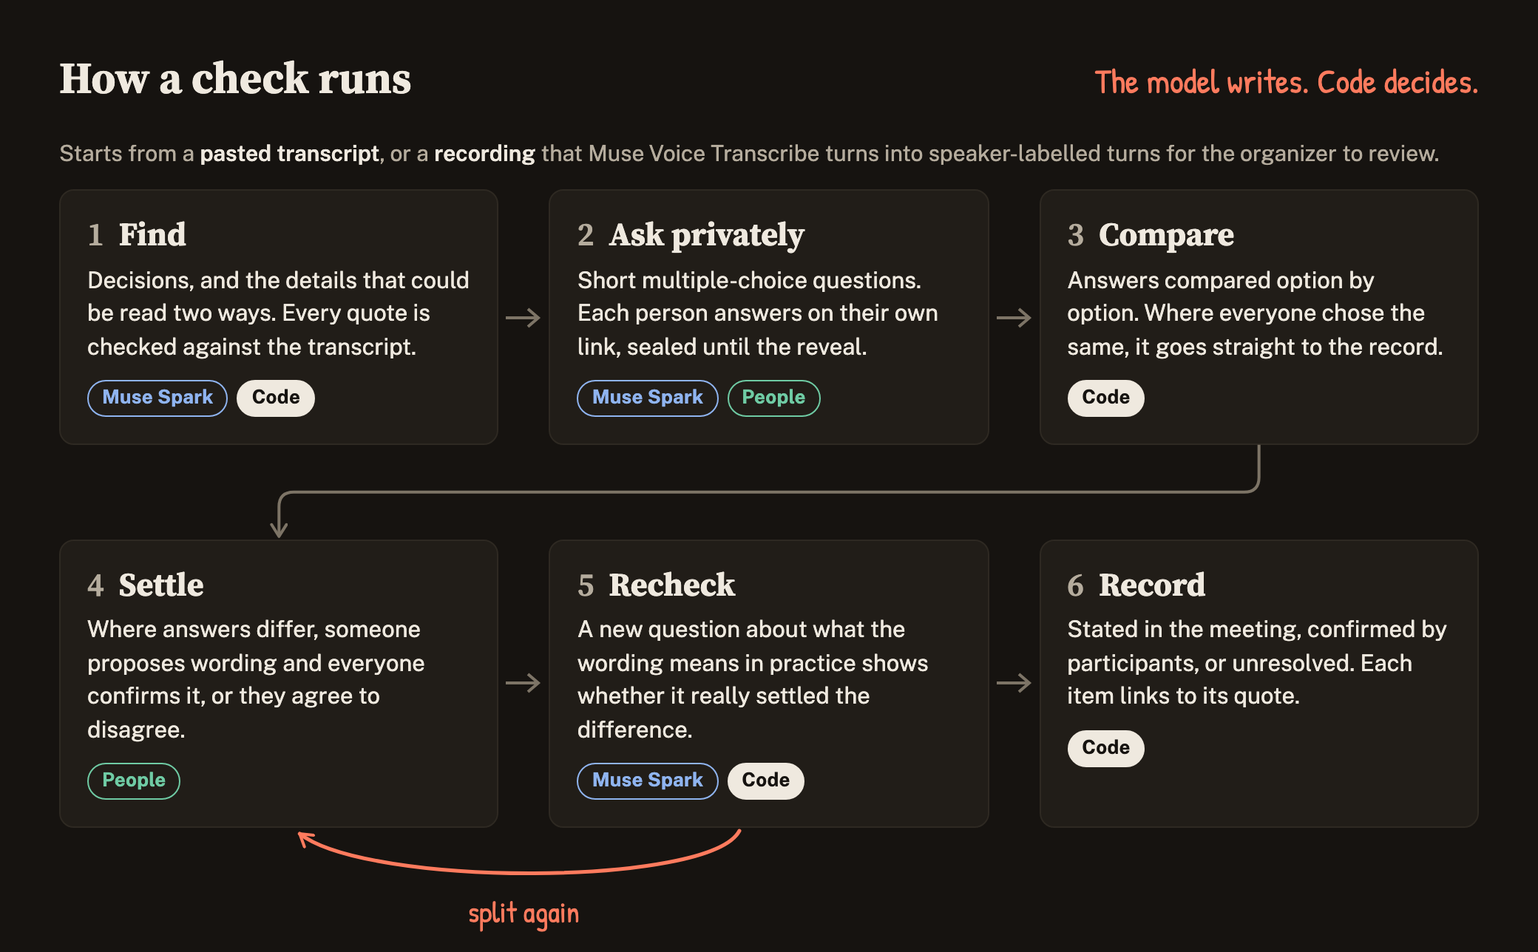
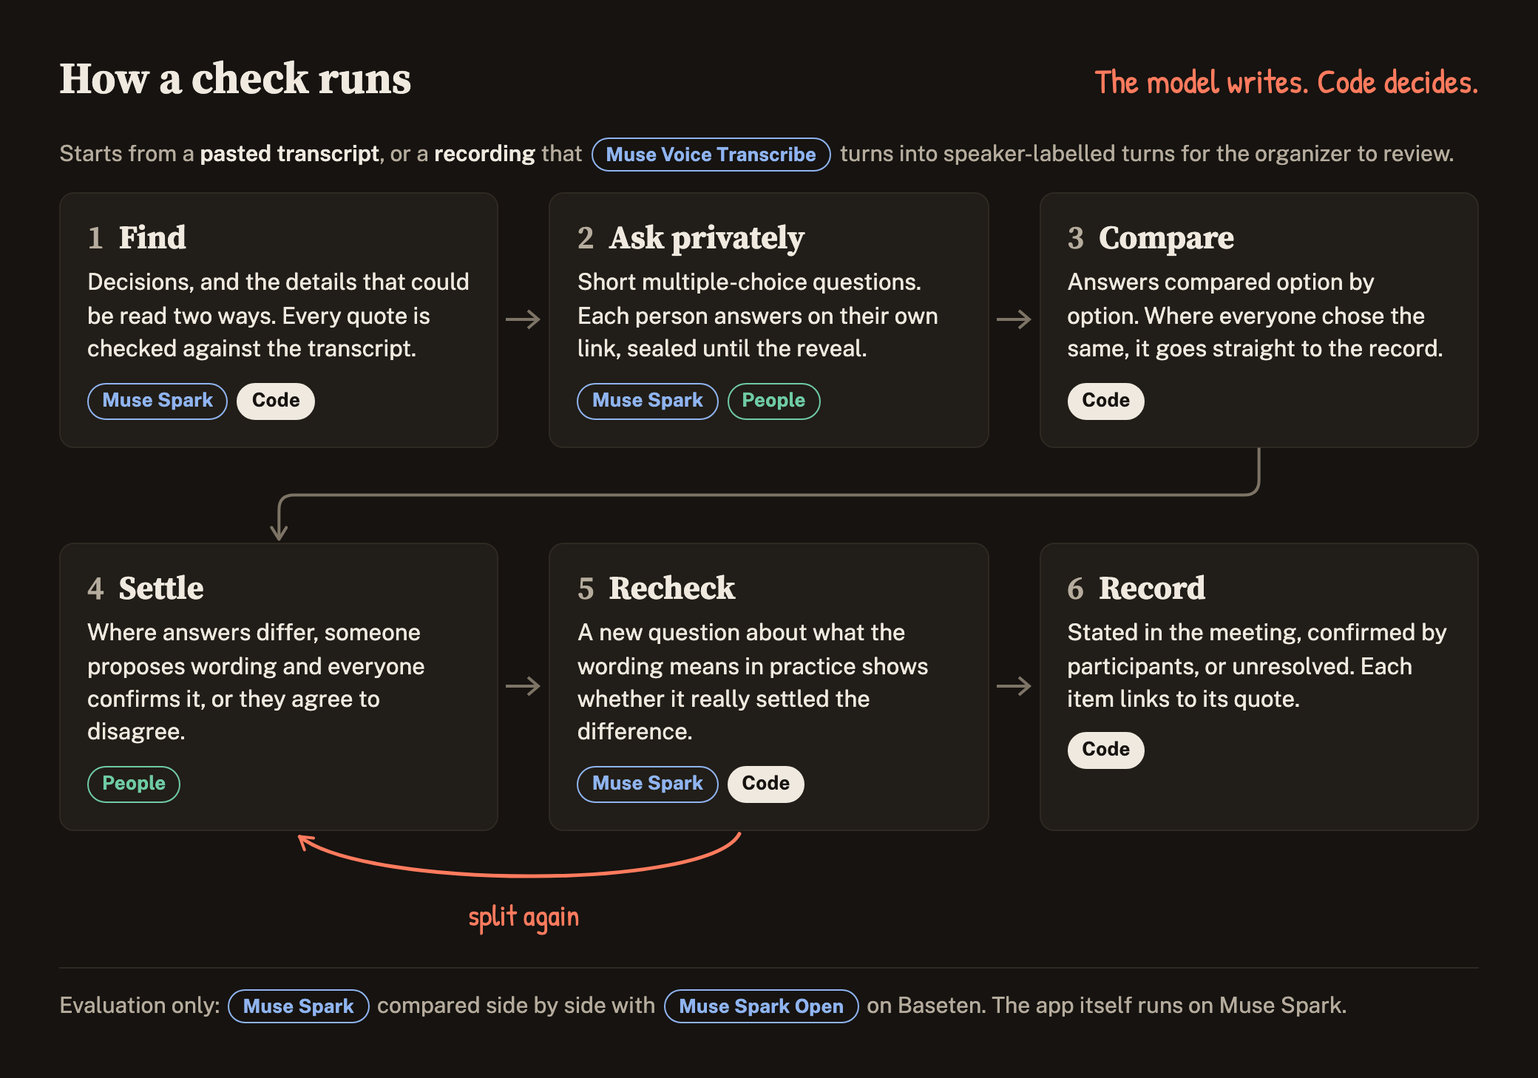
First person in the docs, all three models in the diagram, Slack and Teams coming soon (#73)
* README and write-up: first person singular

ForkCheck is a solo entry, so the write-up says I rather than we.

* Loop diagram: Voice Transcribe as a model tag, and a footnote for the Spark Open comparison

All three Meta models now show in the diagram. Muse Spark Open is marked
as evaluation only, so it doesn't read as part of the app.

* Participant links: Slack and Teams buttons marked Coming soon

Shown next to Email and Share with the brand marks (Simple Icons, CC0).
They are aria-disabled rather than disabled, so keyboard and
screen-reader users reach them, and Coming soon shows on hover, on
keyboard focus and on tap.

* e2e: check the Coming soon tooltip with a forced tap

diff --git a/apps/web/src/ui/send-link.tsx b/apps/web/src/ui/send-link.tsx
@@ -1,6 +1,6 @@
 "use client";
 
-import { useSyncExternalStore } from "react";
+import { useId, useState, useSyncExternalStore } from "react";
 import { Button } from "./components";
 
 /** Why the link is being sent: first to answer, or after the reveal to settle the differences. */
@@ -30,6 +30,44 @@ export function mailtoHref(subject: string, body: string): string {
 }
 
 const noSubscribe = () => () => {};
+
+/** Brand marks from Simple Icons (CC0), drawn in the button's text colour. */
+const LOGOS = {
+  Slack:
+    "M5.042 15.165a2.528 2.528 0 0 1-2.52 2.523A2.528 2.528 0 0 1 0 15.165a2.527 2.527 0 0 1 2.522-2.52h2.52v2.52zM6.313 15.165a2.527 2.527 0 0 1 2.521-2.52 2.527 2.527 0 0 1 2.521 2.52v6.313A2.528 2.528 0 0 1 8.834 24a2.528 2.528 0 0 1-2.521-2.522v-6.313zM8.834 5.042a2.528 2.528 0 0 1-2.521-2.52A2.528 2.528 0 0 1 8.834 0a2.528 2.528 0 0 1 2.521 2.522v2.52H8.834zM8.834 6.313a2.528 2.528 0 0 1 2.521 2.521 2.528 2.528 0 0 1-2.521 2.521H2.522A2.528 2.528 0 0 1 0 8.834a2.528 2.528 0 0 1 2.522-2.521h6.312zM18.956 8.834a2.528 2.528 0 0 1 2.522-2.521A2.528 2.528 0 0 1 24 8.834a2.528 2.528 0 0 1-2.522 2.521h-2.522V8.834zM17.688 8.834a2.528 2.528 0 0 1-2.523 2.521 2.527 2.527 0 0 1-2.52-2.521V2.522A2.527 2.527 0 0 1 15.165 0a2.528 2.528 0 0 1 2.523 2.522v6.312zM15.165 18.956a2.528 2.528 0 0 1 2.523 2.522A2.528 2.528 0 0 1 15.165 24a2.527 2.527 0 0 1-2.52-2.522v-2.522h2.52zM15.165 17.688a2.527 2.527 0 0 1-2.52-2.523 2.526 2.526 0 0 1 2.52-2.52h6.313A2.527 2.527 0 0 1 24 15.165a2.528 2.528 0 0 1-2.522 2.523h-6.313z",
+  Teams:
+    "M20.625 8.127q-.55 0-1.025-.205-.475-.205-.832-.563-.358-.357-.563-.832Q18 6.053 18 5.502q0-.54.205-1.02t.563-.837q.357-.358.832-.563.474-.205 1.025-.205.54 0 1.02.205t.837.563q.358.357.563.837.205.48.205 1.02 0 .55-.205 1.025-.205.475-.563.832-.357.358-.837.563-.48.205-1.02.205zm0-3.75q-.469 0-.797.328-.328.328-.328.797 0 .469.328.797.328.328.797.328.469 0 .797-.328.328-.328.328-.797 0-.469-.328-.797-.328-.328-.797-.328zM24 10.002v5.578q0 .774-.293 1.46-.293.685-.803 1.194-.51.51-1.195.803-.686.293-1.459.293-.445 0-.908-.105-.463-.106-.85-.329-.293.95-.855 1.729-.563.78-1.319 1.336-.756.557-1.67.861-.914.305-1.898.305-1.148 0-2.162-.398-1.014-.399-1.805-1.102-.79-.703-1.312-1.664t-.674-2.086h-5.8q-.411 0-.704-.293T0 16.881V6.873q0-.41.293-.703t.703-.293h8.59q-.34-.715-.34-1.5 0-.727.275-1.365.276-.639.75-1.114.475-.474 1.114-.75.638-.275 1.365-.275t1.365.275q.639.276 1.114.75.474.475.75 1.114.275.638.275 1.365t-.275 1.365q-.276.639-.75 1.113-.475.475-1.114.75-.638.276-1.365.276-.188 0-.375-.024-.188-.023-.375-.058v1.078h10.875q.469 0 .797.328.328.328.328.797zM12.75 2.373q-.41 0-.78.158-.368.158-.638.434-.27.275-.428.639-.158.363-.158.773 0 .41.158.78.159.368.428.638.27.27.639.428.369.158.779.158.41 0 .773-.158.364-.159.64-.428.274-.27.433-.639.158-.369.158-.779 0-.41-.158-.773-.159-.364-.434-.64-.275-.275-.639-.433-.363-.158-.773-.158zM6.937 9.814h2.25V7.94H2.814v1.875h2.25v6h1.875zm10.313 7.313v-6.75H12v6.504q0 .41-.293.703t-.703.293H8.309q.152.809.556 1.5.405.691.985 1.19.58.497 1.318.779.738.281 1.582.281.926 0 1.746-.352.82-.351 1.436-.966.615-.616.966-1.43.352-.815.352-1.752zm5.25-1.547v-5.203h-3.75v6.855q.305.305.691.452.387.146.809.146.469 0 .879-.176.41-.175.715-.48.304-.305.48-.715t.176-.879Z",
+} as const;
+
+/**
+ * Slack and Teams delivery isn't built yet. The button stays focusable (aria-disabled, not
+ * disabled) so keyboard and screen-reader users reach it too, and "Coming soon" shows on hover,
+ * on keyboard focus and on tap, since phones have no hover.
+ */
+function ComingSoon({ service, name }: { service: keyof typeof LOGOS; name: string }) {
+  const [open, setOpen] = useState(false);
+  const tip = useId();
+  return (
+    <span className="coming-soon">
+      <Button
+        variant="secondary"
+        aria-disabled="true"
+        aria-label={`${service}: send ${name}'s link`}
+        aria-describedby={tip}
+        onClick={() => setOpen((o) => !o)}
+        onBlur={() => setOpen(false)}
+      >
+        <svg className="brand-logo" viewBox="0 0 24 24" aria-hidden="true" focusable="false">
+          <path d={LOGOS[service]} fill="currentColor" />
+        </svg>
+        {service}
+      </Button>
+      <span role="tooltip" id={tip} className="coming-soon-tip" data-open={open || undefined}>
+        Coming soon
+      </span>
+    </span>
+  );
+}
 
 /** Email from the organizer's mail app, and Share where the browser has a share sheet (phones). */
 export function SendLink({
@@ -70,6 +108,8 @@ export function SendLink({
           Share
         </Button>
       )}
+      <ComingSoon service="Slack" name={name} />
+      <ComingSoon service="Teams" name={name} />
     </>
   );
 }

diff --git a/.github/assets/loop-diagram.html b/.github/assets/loop-diagram.html
@@ -80,6 +80,11 @@
         color: var(--ink-muted);
         font-size: 15px;
       }
+      .source .tag {
+        display: inline-block;
+        margin-inline: 2px;
+        line-height: 1.35;
+      }
       .source strong {
         color: var(--ink);
         font-weight: 600;
@@ -150,6 +155,18 @@
         justify-self: center;
         color: var(--line);
       }
+      .footnote {
+        margin: 92px 0 0;
+        padding-top: 14px;
+        border-top: 1px solid var(--line-subtle);
+        color: var(--ink-muted);
+        font-size: 15px;
+      }
+      .footnote .tag {
+        display: inline-block;
+        margin-inline: 2px;
+        line-height: 1.35;
+      }
       svg.wires {
         position: absolute;
         inset: 0;
@@ -173,8 +190,9 @@
         <span class="rule">The model writes. Code decides.</span>
       </header>
       <p class="source">
-        Starts from a <strong>pasted transcript</strong>, or a <strong>recording</strong> that Muse
-        Voice Transcribe turns into speaker-labelled turns for the organizer to review.
+        Starts from a <strong>pasted transcript</strong>, or a <strong>recording</strong> that
+        <span class="tag model">Muse Voice Transcribe</span> turns into speaker-labelled turns for
+        the organizer to review.
       </p>
 
       <div class="row">
@@ -253,6 +271,12 @@
         </section>
       </div>
 
+      <p class="footnote">
+        Evaluation only: <span class="tag model">Muse Spark</span> compared side by side with
+        <span class="tag model">Muse Spark Open</span> on Baseten. The app itself runs on Muse
+        Spark.
+      </p>
+
       <svg class="wires" id="wires" aria-hidden="true"></svg>
       <span class="note" id="loop-note">split again</span>
     </div>
@@ -296,7 +320,7 @@
         const note = document.getElementById("loop-note");
         note.style.left = `${(a + b) / 2 - note.offsetWidth / 2}px`;
         note.style.top = `${y + 16}px`;
-        document.querySelector(".diagram").style.paddingBottom = "84px";
+        document.querySelector(".diagram").style.paddingBottom = "36px";
       }
       document.fonts.ready.then(() => {
         draw();

diff --git a/apps/web/e2e/meetings.e2e.ts b/apps/web/e2e/meetings.e2e.ts
@@ -27,6 +27,14 @@ test("the sample meeting fills the form, and the check it creates is listed unde
   await page.getByLabel(/Everyone in this meeting agreed/).check();
   await page.getByRole("button", { name: "Create meeting check" }).click();
   await expect(page.getByRole("heading", { name: "Meeting check created" })).toBeVisible();
+  // Slack and Teams aren't built: they stay reachable and say "Coming soon".
+  const slack = page.getByRole("button", { name: "Slack: send June's link" });
+  await expect(slack).toHaveAttribute("aria-disabled", "true");
+  await expect(slack).toHaveAccessibleDescription("Coming soon");
+  // aria-disabled blocks Playwright's own click, but a real tap goes through and shows the tip.
+  await slack.click({ force: true });
+  await expect(page.getByRole("tooltip").filter({ hasText: "Coming soon" }).first()).toBeVisible();
+  await expect(page.getByRole("heading", { name: "Meeting check created" })).toBeVisible();
   // Email opens the organizer's own mail app with the person's link in a ready message.
   const email = page.getByRole("link", { name: "Email June's link" });
   const nadiaLink = await page

diff --git a/apps/web/src/app/components.css b/apps/web/src/app/components.css
@@ -2155,6 +2155,51 @@ a.button {
   font-size: inherit;
 }
 
+/* Slack and Teams: shown, not built yet. */
+.coming-soon {
+  position: relative;
+  display: inline-flex;
+}
+
+.coming-soon .button[aria-disabled="true"] {
+  display: inline-flex;
+  align-items: center;
+  color: var(--ink-muted);
+  border-style: dashed;
+  border-color: var(--line);
+  cursor: not-allowed;
+}
+
+.coming-soon .brand-logo {
+  width: 1em;
+  height: 1em;
+  margin-inline-end: var(--space-2);
+  flex: none;
+}
+
+.coming-soon-tip {
+  position: absolute;
+  bottom: calc(100% + var(--space-2));
+  left: 50%;
+  z-index: 2;
+  padding: var(--space-1) var(--space-2);
+  background: var(--ink);
+  color: var(--paper);
+  border-radius: var(--radius-control, 4px);
+  font-size: 0.8125rem;
+  font-weight: 600;
+  white-space: nowrap;
+  transform: translateX(-50%);
+  visibility: hidden;
+  pointer-events: none;
+}
+
+.coming-soon:hover .coming-soon-tip,
+.coming-soon .button:focus-visible + .coming-soon-tip,
+.coming-soon-tip[data-open] {
+  visibility: visible;
+}
+
 /* ---------- Your meetings ---------- */
 
 .meeting-list {

diff --git a/apps/web/test/ui/send-link.test.tsx b/apps/web/test/ui/send-link.test.tsx
@@ -1,5 +1,6 @@
+import { renderToStaticMarkup } from "react-dom/server";
 import { describe, expect, it } from "vitest";
-import { linkMessage, mailtoHref } from "../../src/ui/send-link";
+import { linkMessage, mailtoHref, SendLink } from "../../src/ui/send-link";
 
 const url = "http://localhost:3000/p/abc";
 
@@ -26,5 +27,19 @@ describe("mailtoHref", () => {
     expect(mailtoHref('A "b" & c', "line 1\nline 2")).toBe(
       "mailto:?subject=A%20%22b%22%20%26%20c&body=line%201%0Aline%202",
     );
+  });
+});
+
+describe("SendLink", () => {
+  it("shows Slack and Teams as focusable, not-yet-working buttons that say Coming soon", () => {
+    const out = renderToStaticMarkup(
+      <SendLink name="June" title="Atlas launch sync" url={url} purpose="answer" />,
+    );
+    for (const service of ["Slack", "Teams"]) {
+      expect(out).toContain(`aria-label="${service}: send June&#x27;s link"`);
+    }
+    expect(out.match(/aria-disabled="true"/g)).toHaveLength(2);
+    expect(out).not.toMatch(/\sdisabled=""/);
+    expect(out.match(/role="tooltip"[^>]*>Coming soon</g)).toHaveLength(2);
   });
 });

diff --git a/WRITEUP.md b/WRITEUP.md
@@ -20,25 +20,25 @@ The organizer and each participant use their own browser link. No accounts.
 
 <picture>
   <source media="(prefers-color-scheme: dark)" srcset=".github/assets/loop-dark.png">
-  <img alt="How a check runs. It starts from a pasted transcript, or a recording that Muse Voice Transcribe turns into speaker-labelled turns. 1 Find: Muse Spark finds decisions and the details that could be read two ways, and code checks every quote against the transcript. 2 Ask privately: Muse Spark drafts multiple-choice questions and each person answers on their own link, sealed until the reveal. 3 Compare: code compares answers option by option; matching answers go straight to the record. 4 Settle: where answers differ, someone proposes wording and everyone confirms it, or they agree to disagree. 5 Recheck: Muse Spark writes a question about what the wording means in practice and code compares the answers; if they split again, it goes back to Settle. 6 Record: code sorts each item as stated, confirmed or unresolved, linked to its quote." src=".github/assets/loop-light.png">
+  <img alt="How a check runs. It starts from a pasted transcript, or a recording that Muse Voice Transcribe turns into speaker-labelled turns. 1 Find: Muse Spark finds decisions and the details that could be read two ways, and code checks every quote against the transcript. 2 Ask privately: Muse Spark drafts multiple-choice questions and each person answers on their own link, sealed until the reveal. 3 Compare: code compares answers option by option; matching answers go straight to the record. 4 Settle: where answers differ, someone proposes wording and everyone confirms it, or they agree to disagree. 5 Recheck: Muse Spark writes a question about what the wording means in practice and code compares the answers; if they split again, it goes back to Settle. 6 Record: code sorts each item as stated, confirmed or unresolved, linked to its quote. Evaluation only: Muse Spark compared side by side with Muse Spark Open on Baseten; the app itself runs on Muse Spark." src=".github/assets/loop-light.png">
 </picture>
 
-## What we built on and what we built
+## What I built on and what I built
 
 ForkCheck's repository was created on Oct 27, 2026, during the event, and all of its code was written during the hackathon.
 
-The detection half follows published research: Liu et al., "Illusion of Alignment: Detecting Hidden Disagreement in Collaborative Dialogue" (EMNLP 2026; [arXiv:2608.08210](https://arxiv.org/abs/2608.08210)). Diagnostic multiple-choice questions drawn from a transcript, private answers, comparing answers by option, and asking participants whether a split is real all come from that paper. Our question prompt `prompts/generateProbes.v1.md` is adapted from the paper's repository (see [NOTICE](NOTICE)). We don't claim the detection method as ours.
+The detection half follows published research: Liu et al., "Illusion of Alignment: Detecting Hidden Disagreement in Collaborative Dialogue" (EMNLP 2026; [arXiv:2608.08210](https://arxiv.org/abs/2608.08210)). Diagnostic multiple-choice questions drawn from a transcript, private answers, comparing answers by option, and asking participants whether a split is real all come from that paper. My question prompt `prompts/generateProbes.v1.md` is adapted from the paper's repository (see [NOTICE](NOTICE)). I don't claim the detection method as mine.
 
-What we added during the hackathon:
+What I added during the hackathon:
 
 - **Audio input.** Upload a recording, transcribe it with speaker labels, map speakers to participants, and review the transcript before analysis. The paper used written transcripts.
-- **Question templates per dimension** (owner, deadline, scope, acceptance criteria), chosen per dimension from gate runs, with model-written questions as the fallback. We have not shown that templates beat free generation in general (see Limits).
+- **Question templates per dimension** (owner, deadline, scope, acceptance criteria), chosen per dimension from gate runs, with model-written questions as the fallback. I have not shown that templates beat free generation in general (see Limits).
 - **Resolution in the participants' own words**, which counts only when everyone confirms it.
 - **A recheck question about consequences**, to catch a resolution that is still vague.
 - **A source-linked decision record** with the three categories above. A validator checks every record, and its result is shown on the record page.
 - **The product around it:** a Next.js app for organizer and participants, Postgres storage, a 7-day retention default, optional name hiding, an offline replay mode, and an evaluation harness with 26 scenario meetings.
 
-We found no prior work or product that does the last three loop steps (resolve, recheck, record). Our search was limited, so treat that as a note, not a claim of novelty.
+I found no prior work or product that does the last three loop steps (resolve, recheck, record). My search was limited, so treat that as a note, not a claim of novelty.
 
 ## How Meta's models are used
 
@@ -55,9 +55,9 @@ Two rules shape how the models are used:
 
 ## Evaluation
 
-We ran 26 synthetic meetings with planted mismatches (8 development, 18 held out) plus an audio set of 6 synthetic renders and 4 recordings of scripts read by the project owner. Participants are simulated. The full report, with every count and run log, is [eval-results/2026-11-01/report.md](eval-results/2026-11-01/report.md). All numbers below come from it.
+I ran 26 synthetic meetings with planted mismatches (8 development, 18 held out) plus an audio set of 6 synthetic renders and 4 recordings of scripts I read aloud. Participants are simulated. The full report, with every count and run log, is [eval-results/2026-11-01/report.md](eval-results/2026-11-01/report.md). All numbers below come from it.
 
-| What we measured                                           | Target    | Pasted transcripts (Muse Spark) | Audio (Muse Spark) |
+| What I measured                                            | Target    | Pasted transcripts (Muse Spark) | Audio (Muse Spark) |
 | ---------------------------------------------------------- | --------- | ------------------------------- | ------------------ |
 | Decisions found (S2 recall)                                |           | 97.8% (261/267)                 | 96.1% (124/129)    |
 | Quotes that match the transcript (S2 evidence validity)    | ≥ 95%     | 100% (638/638)                  | 100% (305/305)     |
@@ -69,16 +69,16 @@ We ran 26 synthetic meetings with planted mismatches (8 development, 18 held out
 
 The resolve and recheck steps were tested with two kinds of simulated resolution. When the resolution was precise, the recheck agreed in 87.5% of cases (28/32), against a target of 80%. When it was deliberately vague, the recheck caught it, splitting again, in 75.9% of cases (22/29), against a target of 70% ([report](eval-results/2026-11-01/report.md), S6). Every open split appeared as unresolved in the record (7/7 and 26/26, S7).
 
-**Muse Spark against Muse Spark Open.** Before the run, we fixed the rule that Spark Open counts as a credible alternative for a stage if every quality metric is within 5 points of Muse Spark and at least 98% of its JSON is valid after repair. It met that rule for both stages tested. Extraction recall was 99.3% against 97.8%, and question reveal rate was 55.6% against 57.4%. Its JSON was valid on the first try in every call (78/78 and 439/439), and it cost $0.059 per meeting against $0.111 for Muse Spark ([report](eval-results/2026-11-01/report.md), "Muse Spark and Spark Open" and "Cost and latency").
+**Muse Spark against Muse Spark Open.** Before the run, I fixed the rule that Spark Open counts as a credible alternative for a stage if every quality metric is within 5 points of Muse Spark and at least 98% of its JSON is valid after repair. It met that rule for both stages tested. Extraction recall was 99.3% against 97.8%, and question reveal rate was 55.6% against 57.4%. Its JSON was valid on the first try in every call (78/78 and 439/439), and it cost $0.059 per meeting against $0.111 for Muse Spark ([report](eval-results/2026-11-01/report.md), "Muse Spark and Spark Open" and "Cost and latency").
 
 **Cost.** A full meeting check on pasted text costs about $0.11 in Muse Spark calls (about 15 calls), and about $0.13 from audio ([report](eval-results/2026-11-01/report.md), "Cost and latency").
 
 ## Limits
 
-- **Question quality is below target.** On pasted transcripts the questions reveal 57.4% of planted mismatches, against our 75% target. We report that number as measured; we did not tune against the held-out set to raise it. The audio set scored higher (77.8%), but it has fewer mismatches (18 against 54), so that gap is not evidence that audio helps.
+- **Question quality is below target.** On pasted transcripts the questions reveal 57.4% of planted mismatches, against my 75% target. I report that number as measured; I did not tune against the held-out set to raise it. The audio set scored higher (77.8%), but it has fewer mismatches (18 against 54), so that gap is not evidence that audio helps.
 - **Simulated participants.** Muse Spark answers each question from a private brief, and the same model family writes the questions, which may push reveal rates up. These results don't show how real teams would answer.
 - **Synthetic meetings.** The 26 meetings were written for this evaluation.
-- **One rater.** Human quality scores were pre-filled by a model, then reviewed and corrected by one rater, the project owner. No inter-rater agreement is reported.
+- **One rater.** Human quality scores were pre-filled by a model, then reviewed and corrected by one rater, me. No inter-rater agreement is reported.
 - **Templates.** Per-dimension templates were picked on the development scenarios they were shaped against, so their benefit isn't proven on unseen data.
 - **Product limits.** Recordings must be 10 minutes and 32 MB or less (the Voice Transcribe limits). Questions and records are English only. Audio is stored on local disk, and rate limits hold for one server process.
 

diff --git a/README.md b/README.md
@@ -21,12 +21,12 @@ The model writes; code decides. Whether answers differ, whether wording is confi
 
 <picture>
   <source media="(prefers-color-scheme: dark)" srcset=".github/assets/loop-dark.png">
-  <img alt="How a check runs. It starts from a pasted transcript, or a recording that Muse Voice Transcribe turns into speaker-labelled turns. 1 Find: Muse Spark finds decisions and the details that could be read two ways, and code checks every quote against the transcript. 2 Ask privately: Muse Spark drafts multiple-choice questions and each person answers on their own link, sealed until the reveal. 3 Compare: code compares answers option by option; matching answers go straight to the record. 4 Settle: where answers differ, someone proposes wording and everyone confirms it, or they agree to disagree. 5 Recheck: Muse Spark writes a question about what the wording means in practice and code compares the answers; if they split again, it goes back to Settle. 6 Record: code sorts each item as stated, confirmed or unresolved, linked to its quote." src=".github/assets/loop-light.png">
+  <img alt="How a check runs. It starts from a pasted transcript, or a recording that Muse Voice Transcribe turns into speaker-labelled turns. 1 Find: Muse Spark finds decisions and the details that could be read two ways, and code checks every quote against the transcript. 2 Ask privately: Muse Spark drafts multiple-choice questions and each person answers on their own link, sealed until the reveal. 3 Compare: code compares answers option by option; matching answers go straight to the record. 4 Settle: where answers differ, someone proposes wording and everyone confirms it, or they agree to disagree. 5 Recheck: Muse Spark writes a question about what the wording means in practice and code compares the answers; if they split again, it goes back to Settle. 6 Record: code sorts each item as stated, confirmed or unresolved, linked to its quote. Evaluation only: Muse Spark compared side by side with Muse Spark Open on Baseten; the app itself runs on Muse Spark." src=".github/assets/loop-light.png">
 </picture>
 
 The app is Next.js with Postgres. Pure logic (comparing answers, resolution rules, the record) lives in `packages/core`, the model stages (finding decisions, writing questions and rechecks) in `packages/engine`, the model client and recorded replies in `packages/ai`, transcription in `packages/asr`, storage in `packages/db`, and the evaluation harness in `packages/eval`.
 
-For the hackathon submission (what we built, how Meta's models are used, evaluation results and limits), see [WRITEUP.md](WRITEUP.md).
+For the hackathon submission (what I built, how Meta's models are used, evaluation results and limits), see [WRITEUP.md](WRITEUP.md).
 
 ## Setup
 
@@ -105,7 +105,7 @@ What this project adds:
 - a follow-up question about consequences, to check that the new wording settled the split;
 - a decision record whose every item links to its source and is marked stated, confirmed or unresolved.
 
-We found no prior work or product doing the last three, but that search was limited and is not a claim of novelty.
+I found no prior work or product doing the last three, but that search was limited and is not a claim of novelty.
 
 ## License
 
